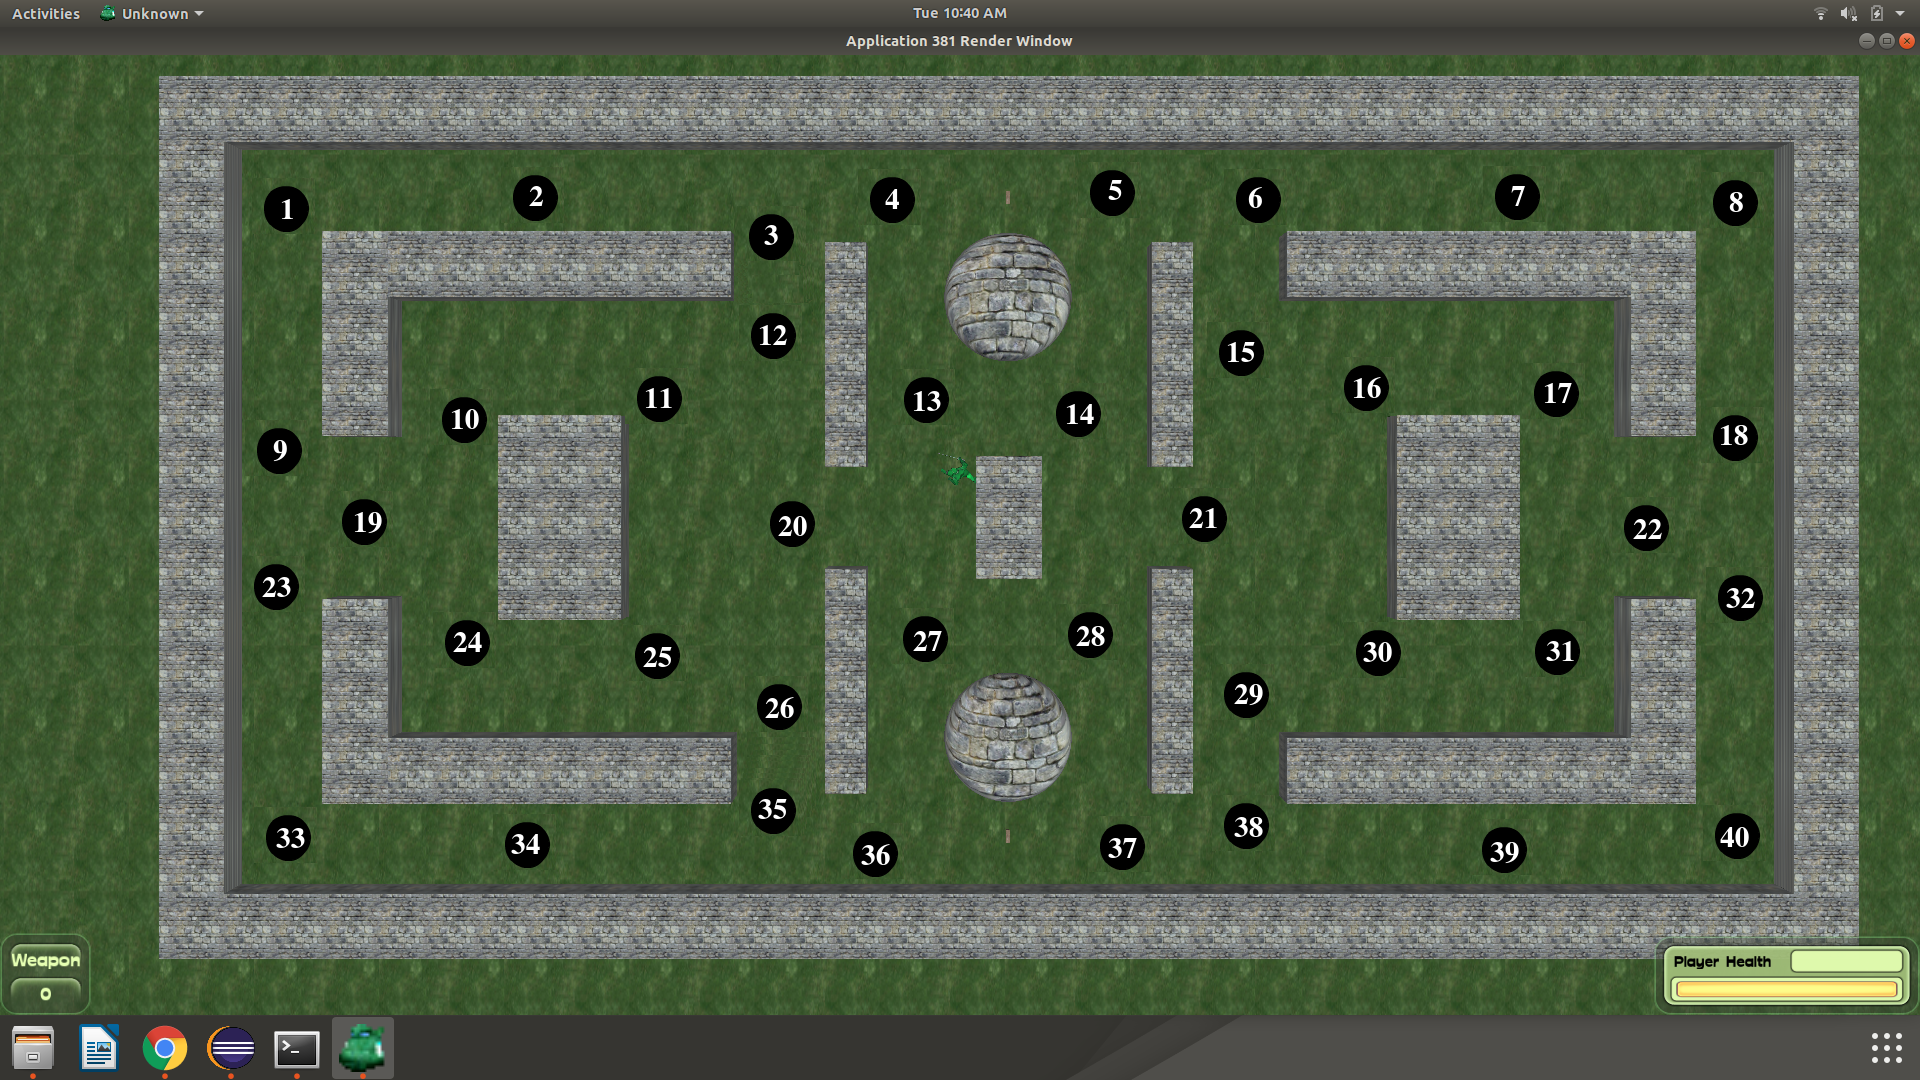
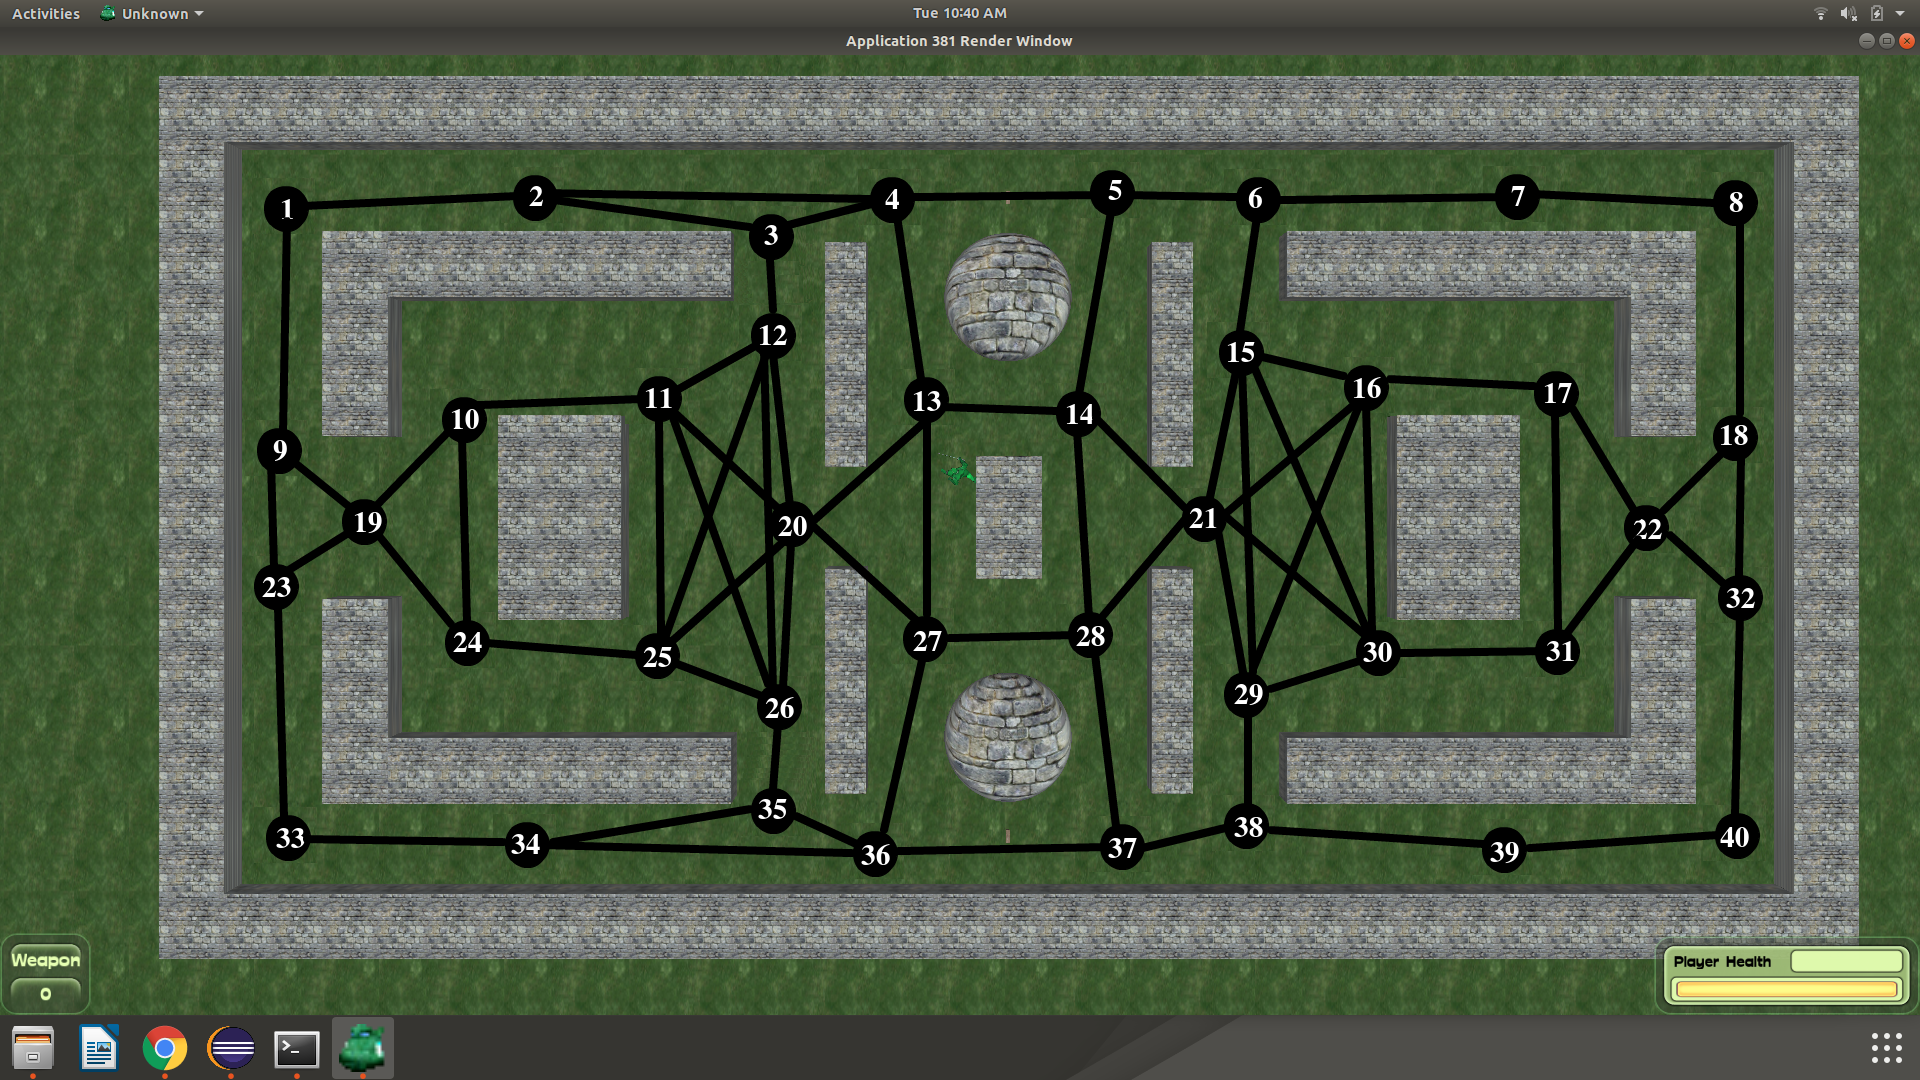
Added potential fields that work :)

diff --git a/src/Aspects/PotentialField.cpp b/src/Aspects/PotentialField.cpp
@@ -4,14 +4,106 @@
  */
 
 #include "PotentialField.h"
+#include "OgreVector2.h"
+#include "Entity381.h"
+#include "OrientedPhysics3D.h"
+#include <algorithm>
 
-PotentialField::PotentialField(Entity381 *ent, float c, float e) :
+double PotentialField::c_Enemy_Enemy_repulsion = 1000000;
+double PotentialField::e_Enemy_Enemy_repulsion = -3;
+double PotentialField::c_Enemy_Enemy_attraction = 0;
+double PotentialField::e_Enemy_Enemy_attraction = 1;
+
+double PotentialField::c_Enemy_Target_repulsion = 0;
+double PotentialField::e_Enemy_Target_repulsion = 1;
+double PotentialField::c_Enemy_Target_attraction = 100/*10000*/;
+double PotentialField::e_Enemy_Target_attraction = 0/*-1*/;
+
+double PotentialField::c_Enemy_Obstacle_repulsion = 500000;
+double PotentialField::e_Enemy_Obstacle_repulsion = -2;
+double PotentialField::c_Enemy_Obstacle_attraction = 0;
+double PotentialField::e_Enemy_Obstacle_attraction = 1;
+
+std::vector<PotentialField *> PotentialField::potentialFields;
+
+PotentialField::PotentialField(Entity381 *ent, PotentialFieldType t) :
         Aspect(ent),
-        constant(c),
-        exponent(e){
+        type(t),
+        enabled(true){
+    potentialFields.push_back(this);
 }
 
 PotentialField::~PotentialField(){
+    potentialFields.erase(
+            std::remove(potentialFields.begin(), potentialFields.end(), this),
+            potentialFields.end());
+}
 
+void PotentialField::Tick(float dt){
+    if(type != PotentialFieldType::Enemy){
+        return;
+    }
+    Ogre::Vector2 vectorSum = Ogre::Vector2::ZERO;
+    for(unsigned int i = 0; i < potentialFields.size(); ++i){
+        if(potentialFields[i] == this || !potentialFields[i]->enabled){
+            continue;
+        }
+        double c_rep = 0;
+        double e_rep = 0;
+        double c_attr = 0;
+        double e_attr = 0;
+        switch(potentialFields[i]->type) {
+            case PotentialFieldType::Target:
+                c_rep = PotentialField::c_Enemy_Target_repulsion;
+                e_rep = PotentialField::e_Enemy_Target_repulsion;
+                c_attr = PotentialField::c_Enemy_Target_attraction;
+                e_attr = PotentialField::e_Enemy_Target_attraction;
+                break;
+            case PotentialFieldType::Obstacle:
+                c_rep = PotentialField::c_Enemy_Obstacle_repulsion;
+                e_rep = PotentialField::e_Enemy_Obstacle_repulsion;
+                c_attr = PotentialField::c_Enemy_Obstacle_attraction;
+                e_attr = PotentialField::e_Enemy_Obstacle_attraction;
+                break;
+            case PotentialFieldType::Enemy:
+                c_rep = PotentialField::c_Enemy_Enemy_repulsion;
+                e_rep = PotentialField::e_Enemy_Enemy_repulsion;
+                c_attr = PotentialField::c_Enemy_Enemy_attraction;
+                e_attr = PotentialField::e_Enemy_Enemy_attraction;
+                break;
+        }
+
+        Ogre::Vector2 diff = Ogre::Vector2(
+                entity381->position.x - potentialFields[i]->entity381->position.x,
+                entity381->position.z - potentialFields[i]->entity381->position.z);
+        diff.x /= potentialFields[i]->entity381->scale.x;
+        diff.y /= potentialFields[i]->entity381->scale.z;
+        const double d = diff.length();
+        if(d >= 100.0 && potentialFields[i]->type == PotentialFieldType::Enemy){
+            continue;
+        }
+        const double attr = c_attr * Ogre::Math::Pow(d, e_attr);
+        const double rep = c_rep * Ogre::Math::Pow(d, e_rep);
+        vectorSum += (rep - attr) * diff.normalisedCopy();
+    }
+
+    //std::cout << vectorSum << " ";
+    OrientedPhysics3D *physics = entity381->GetAspect<OrientedPhysics3D>();
+    if(physics != NULL){
+        if(vectorSum != Ogre::Vector2::ZERO){
+            physics->desiredHeading = Ogre::Degree(
+                    Ogre::Math::ATan2(vectorSum.y, vectorSum.x)).valueDegrees();
+            float angleDiff = physics->desiredHeading - physics->heading;
+            if(angleDiff < 0){
+                angleDiff += 360;
+            }
+            if(angleDiff > 180){
+                angleDiff = 360 - angleDiff;
+            }
+            physics->desiredSpeed = physics->maxSpeed * (1.5 - angleDiff / 180);
+        } else{
+            physics->desiredSpeed = 0;
+        }
+    }
 }
 

diff --git a/src/Aspects/Collider/CircleCollider.cpp b/src/Aspects/Collider/CircleCollider.cpp
@@ -61,9 +61,9 @@ bool CircleCollider::GetClosestPoint(const Ray ray, float *dist) const{
 }
 
 Ogre::Vector3 CircleCollider::GetClosestPoint(Ogre::Vector3 point) const{
-    const Ogre::Vector3 offset =
-            (point - Ogre::Vector3(entity381->position.x, point.y, entity381->position.z)).normalisedCopy();
-    return entity381->position + radius * offset;
+    const Ogre::Vector3 offset = point
+            - Ogre::Vector3(entity381->position.x, point.y, entity381->position.z);
+    return entity381->position + radius * offset.normalisedCopy();
 }
 
 void CircleCollider::OnCollision(Collider *other) const{
@@ -136,8 +136,13 @@ void MovableCircleCollider::OnCollision(Collider *other) const{
         if(castToCircle != NULL){
             Ogre::Vector3 diff = entity381->position - castToCircle->entity381->position;
             diff.y = 0;
-            entity381->position += ((radius + castToCircle->radius) / diff.length() - 1)
-                    * diff;
+            const float dist = diff.length();
+            if(dist <= 0.0001){
+                entity381->position += Ogre::Vector3(0, 0, radius + castToCircle->radius);
+            } else{
+                entity381->position += ((radius + castToCircle->radius) / dist - 1)
+                        * diff;
+            }
         }
 
         RectangleCollider *castToRect = dynamic_cast<RectangleCollider *>(other);
@@ -145,10 +150,11 @@ void MovableCircleCollider::OnCollision(Collider *other) const{
             Ogre::Vector3 diff = entity381->position
                     - castToRect->GetClosestPoint(entity381->position);
             diff.y = 0;
+            const float dist = diff.length();
             if(castToRect->PointInRectangle(entity381->position)){
                 entity381->position -= diff;
-            } else{
-                entity381->position += (radius / diff.length() - 1) * diff;
+            } else if(dist >= 0.0001){
+                entity381->position += (radius / dist - 1) * diff;
             }
         }
     }

diff --git a/src/Entities/Entity381.cpp b/src/Entities/Entity381.cpp
@@ -12,6 +12,7 @@
 #include "UnitAI.h"
 #include "CircleCollider.h"
 #include "RectangleCollider.h"
+#include "PotentialField.h"
 
 void Entity381::Tick(float dt){
     for(unsigned int i = 0; i < aspects.size(); ++i){
@@ -44,6 +45,7 @@ SphereEntity381::SphereEntity381(int id, Ogre::Vector3 pos, int r, Engine * eng)
     ogreEntity->setMaterialName("Stone");
     aspects.push_back(new UnitAI(this));
     aspects.push_back(new CircleCollider(this, radius));
+    aspects.push_back(new PotentialField(this, PotentialFieldType::Obstacle));
     aspects.push_back(new Renderable(this));
 }
 
@@ -65,6 +67,7 @@ RectangleEntity381::RectangleEntity381(int id, Ogre::Vector3 pos, Ogre::Vector3 
     ogreEntity->setMaterial(material);
     aspects.push_back(new UnitAI(this));
     aspects.push_back(new RectangleCollider(this, width, length));
+    aspects.push_back(new PotentialField(this, PotentialFieldType::Obstacle));
     aspects.push_back(new Renderable(this));
 }
 
@@ -74,7 +77,8 @@ RectangleEntity381::~RectangleEntity381(){
 RectangleBorderEntity381::RectangleBorderEntity381(int id, Ogre::Vector3 pos,
                                                    Ogre::Vector3 sc, Engine * eng) :
         RectangleEntity381(id, pos, sc, eng){
-    aspects.erase(std::remove(aspects.begin(), aspects.end(), GetAspect<RectangleCollider>()));
+    aspects.erase(
+            std::remove(aspects.begin(), aspects.end(), GetAspect<RectangleCollider>()));
     aspects.push_back(new UnitAI(this));
     aspects.push_back(new RectangleBorderCollider(this, width, length));
     aspects.push_back(new Renderable(this));

diff --git a/src/Entities/Enemy.cpp b/src/Entities/Enemy.cpp
@@ -15,6 +15,7 @@
 #include "CircleCollider.h"
 #include "WaveMgr.h"
 #include "EntityMgr.h"
+#include "PotentialField.h"
 
 #include <cstdlib>
 #include <ctime>
@@ -29,10 +30,11 @@ Enemy::Enemy(int id, Ogre::Vector3 pos, Engine * eng) :
     anim->SetAnimation("Walk", true, 1.2);
 
     aspects.push_back(new OrientedPhysics3D(this, 200, 180, 180));
-    UnitAI * ai = new UnitAI(this);
-    aspects.push_back(ai);
+    //UnitAI * ai = new UnitAI(this);
+    //aspects.push_back(ai);
+    aspects.push_back(new PotentialField(this, PotentialFieldType::Enemy));
 
-    ai->SetCommand(new Intercept(this, eng->gameMgr->MainPlayer));
+    //ai->SetCommand(new Intercept(this, eng->gameMgr->MainPlayer));
     aspects.push_back(new EnemyMovableCircleCollider(this, 30));
     aspects.push_back(new Renderable(this, 90));
 
@@ -44,12 +46,12 @@ Enemy::~Enemy(){
 
 void Enemy::OnDeath(){
     int rand = std::rand() % 100;
-        if(rand < 12) {
-            engine->entityMgr->CreateEntity(EntityType::HandgunType, position);
-        }
-    Ogre::Vector3 newPos = Ogre::Vector3(0,0, 25e6);
+    if(rand < 12){
+        engine->entityMgr->CreateEntity(EntityType::HandgunType, position);
+    }
+    Ogre::Vector3 newPos = Ogre::Vector3(0, 0, 25e6);
     position = newPos;
-    GetAspect<UnitAI>()->SetCommand(new MoveTo(this, newPos));
+    //GetAspect<UnitAI>()->SetCommand(new MoveTo(this, newPos));
     anim->DisableAnimation();
     engine->waveMgr->OnEnemyKilled(this);
 }

diff --git a/inc/Aspects/PotentialField.h b/inc/Aspects/PotentialField.h
@@ -7,15 +7,36 @@
 #define INC_ASPECTS_POTENTIALFIELD_H_
 
 #include "Aspect.h"
+#include <vector>
 
-class PotentialField : Aspect{
+enum PotentialFieldType{
+    Target, Obstacle, Enemy
+};
+
+class PotentialField : public Aspect{
 public:
-    PotentialField(Entity381 *ent, float c, float e);
+    PotentialField(Entity381 *ent, PotentialFieldType t);
     ~PotentialField();
+    void Tick(float dt);
 
-    float constant;
-    float exponent;
-private:
+    static double c_Enemy_Enemy_repulsion;
+    static double e_Enemy_Enemy_repulsion;
+    static double c_Enemy_Enemy_attraction;
+    static double e_Enemy_Enemy_attraction;
+
+    static double c_Enemy_Target_repulsion;
+    static double e_Enemy_Target_repulsion;
+    static double c_Enemy_Target_attraction;
+    static double e_Enemy_Target_attraction;
+
+    static double c_Enemy_Obstacle_repulsion;
+    static double e_Enemy_Obstacle_repulsion;
+    static double c_Enemy_Obstacle_attraction;
+    static double e_Enemy_Obstacle_attraction;
+
+    PotentialFieldType type;
+    bool enabled;
+    static std::vector<PotentialField *> potentialFields;
 };
 
 #endif /* INC_ASPECTS_POTENTIALFIELD_H_ */

diff --git a/src/Managers/InputMgr.cpp b/src/Managers/InputMgr.cpp
@@ -16,6 +16,7 @@
 #include "GameMgr.h"
 #include "WeaponHolder.h"
 #include "CameraTether.h"
+#include "PotentialField.h"
 
 #include "Player.h"
 
@@ -97,6 +98,9 @@ void InputMgr::Tick(float dt){
 }
 
 void InputMgr::UpdatePlayer(float dt){
+    static bool ctrlR_DownLastFrame = false;
+    bool ctrlR = mKeyboard->isKeyDown(OIS::KC_LCONTROL)
+            && mKeyboard->isKeyDown(OIS::KC_R);
     Player * player = engine->gameMgr->MainPlayer;
 
     // uses yghj
@@ -121,8 +125,12 @@ void InputMgr::UpdatePlayer(float dt){
         player->GetAspect<CameraTether>()->Height += 400 * dt;
     }
     if(mKeyboard->isKeyDown(OIS::KC_DOWN)){
-            player->GetAspect<CameraTether>()->Height -= 400 * dt;
-        }
+        player->GetAspect<CameraTether>()->Height -= 400 * dt;
+    }
+    if(ctrlR && !ctrlR_DownLastFrame){
+        player->GetAspect<PotentialField>()->enabled ^= true;
+    }
+    ctrlR_DownLastFrame = ctrlR;
 
 }
 

diff --git a/src/Aspects/Animation.cpp b/src/Aspects/Animation.cpp
@@ -7,6 +7,7 @@
 
 #include "Animation.h"
 #include "Entity381.h"
+#include "OrientedPhysics3D.h"
 
 Animation::Animation(Entity381 * entity) :
         Aspect(entity),
@@ -38,5 +39,15 @@ void Animation::DisableAnimation(){
 void Animation::Tick(float dt){
     if(animState != NULL && animState->getEnabled()){
         animState->addTime(animSpeed * dt);
+    }
+    OrientedPhysics3D *physics = entity381->GetAspect<OrientedPhysics3D>();
+    if(physics != NULL && physics->speed == 0){
+        DisableAnimation();
+    } else if(animState != NULL){
+        if(animState->getEnabled()){
+            animState->addTime(animSpeed * dt);
+        } else{
+            SetAnimation("Walk", true, 1.2);
+        }
     }
 }

diff --git a/src/Entities/Player.cpp b/src/Entities/Player.cpp
@@ -12,6 +12,7 @@
 #include "Animation.h"
 #include "CircleCollider.h"
 #include "WeaponHolder.h"
+#include "PotentialField.h"
 
 Player::Player(float speed, Ogre::SceneNode * camera, int id, Vector3 pos, Engine * eng) :
         Entity381(id, "ninja.mesh", pos, eng),
@@ -22,6 +23,7 @@ Player::Player(float speed, Ogre::SceneNode * camera, int id, Vector3 pos, Engin
     aspects.push_back(new CameraTether(this, 1000, camera));
     aspects.push_back(new WeaponHolder(this));
     aspects.push_back(new PlayerMovableCircleCollider(this, 50));
+    aspects.push_back(new PotentialField(this, PotentialFieldType::Target));
     aspects.push_back(new Renderable(this, 90));
 }
 Player::~Player(){
